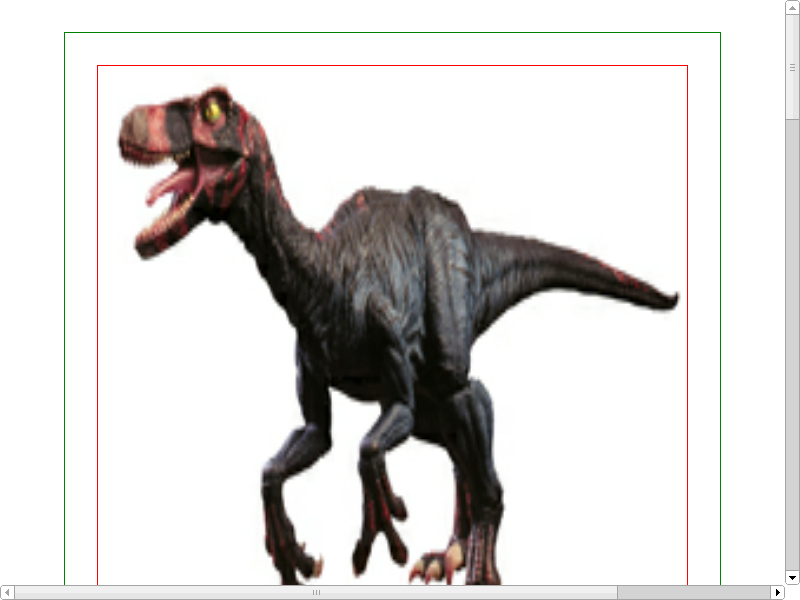
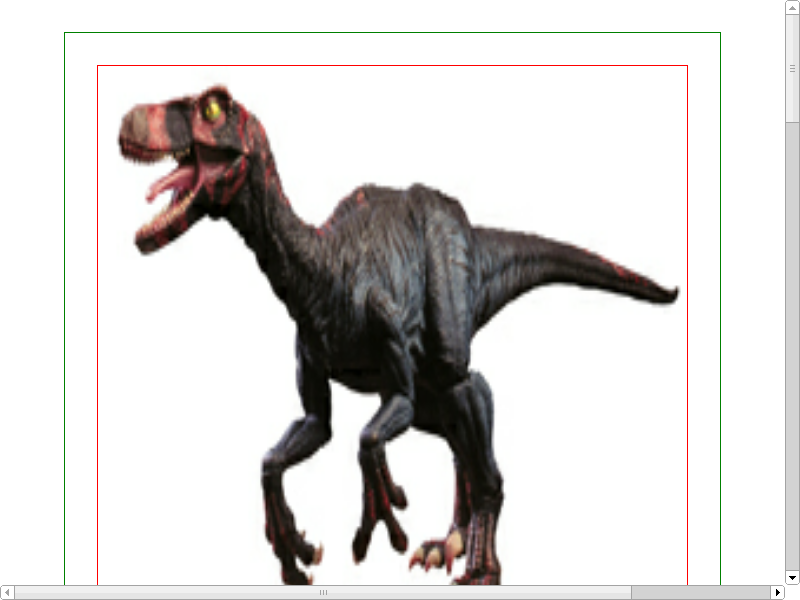
100% height elements to not respond to vertical browser rescaling https://bugs.webkit.org/show_bug.cgi?id=43022
Patch by Terry Anderson <tdanderson@chromium.org> on 2012-03-16
Reviewed by Julien Chaffraix.

Source/WebCore:

Test: fast/replaced/vertical-resize-100percent-element.html

* rendering/RenderBox.cpp:
(WebCore::RenderBox::computeReplacedLogicalHeightUsing):
    For the case where a replaced element has a percentage height,
    we update the entries in RenderBlock::gPercentHeightDescendantsMap
    corresponding to all ancestors of the replaced element.

LayoutTests:

* fast/replaced/resources/vertical-resize-100percent-contents.html: Added.
* fast/replaced/vertical-resize-100percent-element-expected.txt: Added.
* fast/replaced/vertical-resize-100percent-element.html: Added.
      Layout test to ensure that an image with 100% height is resized when
      its containing iframe is vertically resized to be larger or smaller.
* platform/chromium-linux/tables/mozilla_expected_failures/bugs/bug85016-expected.png:
* platform/chromium-win/tables/mozilla_expected_failures/bugs/bug85016-expected.txt:
      Rebaseline for chromium. This patch causes a progression in this layout test.  In the
      diff, note that the viewport has height 585, which is 600 minus 15 pixels to account for
      the horizontal scrollbar.  In the old expected output the first image to be displayed
      has height 600, which is incorrect because it should be 100% of the viewport height.
      The new expected output shows the first image with the correct height of 585.
[…]

diff --git a/fast/replaced/vertical-resize-100percent-element.html b/fast/replaced/vertical-resize-100percent-element.html
@@ -1,0 +1,54 @@
+<html>
+<head>
+<script>
+var theFrame, theImage;
+
+function log(msg)
+{
+    var console = document.getElementById('console');
+    console.appendChild(document.createTextNode(msg));
+    console.appendChild(document.createElement('br'));
+}
+
+function resizeAndCheck(newSize)
+{
+    theFrame.height = newSize;
+
+    log("New frame height is " + theFrame.height);
+    log("New image height is " + theImage.height);
+
+    if (theImage.height == newSize)
+        log("PASSED: Image size is correct");
+    else
+        log("FAILED: Image size is not correct");
+}
+
+function run()
+{
+    if (window.layoutTestController)
+        layoutTestController.dumpAsText();
+
+    theFrame = document.getElementById('frame');
+    var frContents = theFrame.contentWindow.document;
+    theImage = frContents.getElementById('img');
+
+    log("Original frame height was " + theFrame.height);
+    log("Original image height was " + theImage.height);
+    
+    log("Vertically resizing the frame to be larger");
+    resizeAndCheck(600);
+
+    log("Vertically resizing the frame to be smaller");
+    resizeAndCheck(450);
+}
+
+</script>
+</head>
+
+<body onload="run()">
+<iframe height="500" width="500" id="frame" src="resources/vertical-resize-100percent-contents.html"></iframe> 
+<p>Layout test for https://bugs.webkit.org/show_bug.cgi?id=43022. Checks to see if an image having a percentage height is resized when its containing iframe is vertically resized. This test only works in DumpRenderTree since it involves accessing the internal elements of an iframe.</p>
+<p id="console"></p>
+</body>
+
+</html>

diff --git a/fast/replaced/resources/vertical-resize-100percent-contents.html b/fast/replaced/resources/vertical-resize-100percent-contents.html
@@ -1,0 +1,33 @@
+<html>
+<head>
+<style>
+html, body {
+    border: 0;
+    margin: 0;
+    height: 100%;
+}
+
+#container {
+    position: relative;
+    margin: 0 auto;
+    height: auto !important;
+    min-height: 100%;
+}
+
+#footer {
+    position: absolute;
+    width: 100%;
+    bottom: 0;
+    background: gray;
+}
+</style>
+</head>
+<body>
+<div id="container">
+    <div><img id="img" src="compass.jpg" style="width: 100%; height: 100%;"></div>
+    <div id="footer">
+    Layout test for <a href="https://bugs.webkit.org/show_bug.cgi?id=43022">https://bugs.webkit.org/show_bug.cgi?id=43022</a>
+    </div>
+</div>
+</body>
+</html>
